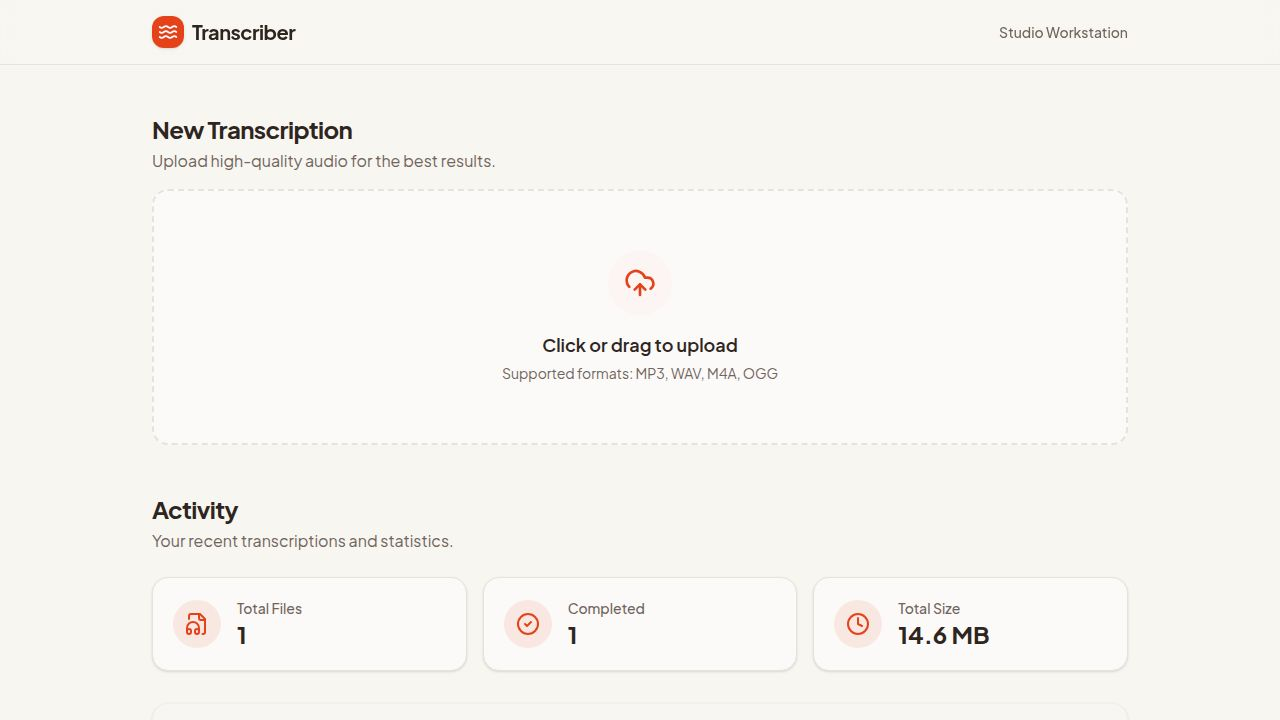
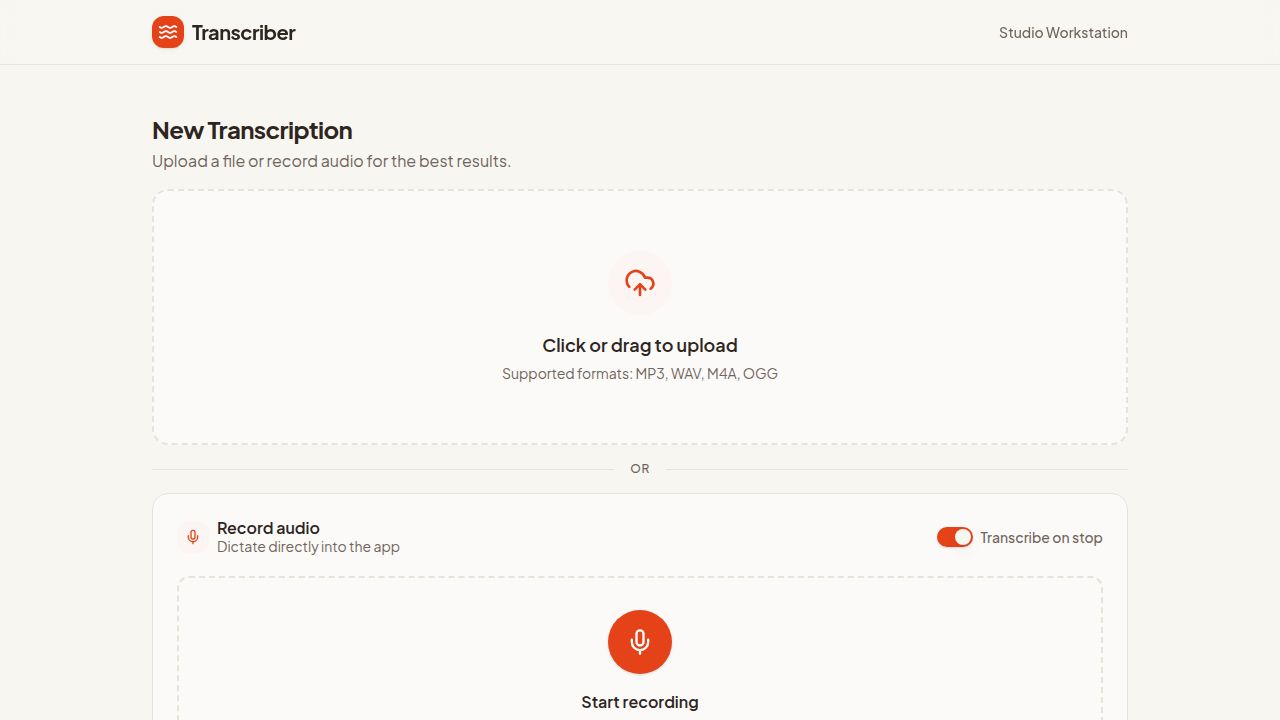
Add a large red button to play and pause recordings
Replace default audio controls with a custom play/pause button using React hooks and refs, and fix Vite HMR issues by restarting the dev server.

Replit-Commit-Author: Agent
Replit-Commit-Session-Id: cb70e699-e0a4-4c51-af6b-66b22c2fdcf6
Replit-Commit-Checkpoint-Type: full_checkpoint
Replit-Commit-Event-Id: f14b11a9-49dc-4ad6-8740-59c7d8eeedbb
Replit-Commit-Screenshot-Url: https://storage.googleapis.com/screenshot-production-us-central1/364c40fe-9def-42ae-b043-055617a192bc/cb70e699-e0a4-4c51-af6b-66b22c2fdcf6/eCAmhh2
Replit-Helium-Checkpoint-Created: true

diff --git a/artifacts/transcriber/src/components/TranscriptionCard.tsx b/artifacts/transcriber/src/components/TranscriptionCard.tsx
@@ -1,4 +1,4 @@
-import { useState } from "react";
+import { useState, useRef } from "react";
 import { Transcription } from "@workspace/api-client-react/src/generated/api.schemas";
 import { useDeleteTranscription, getListTranscriptionsQueryKey, getGetTranscriptionStatsQueryKey } from "@workspace/api-client-react";
 import { useQueryClient } from "@tanstack/react-query";
@@ -6,7 +6,7 @@ import { formatFileSize, formatDate } from "@/lib/format";
 import { Card, CardHeader, CardContent, CardFooter } from "@/components/ui/card";
 import { Button } from "@/components/ui/button";
 import { Badge } from "@/components/ui/badge";
-import { Loader2, Copy, Trash2, FileAudio, AlertCircle, Check, Volume2 } from "lucide-react";
+import { Loader2, Copy, Trash2, FileAudio, AlertCircle, Check, Play, Pause } from "lucide-react";
 import { useToast } from "@/hooks/use-toast";
 import { cn } from "@/lib/utils";
 import { TransformPanel } from "./TransformPanel";
@@ -28,8 +28,20 @@ interface TranscriptionCardProps {
 
 export function TranscriptionCard({ transcription }: TranscriptionCardProps) {
   const [copied, setCopied] = useState(false);
+  const [isPlaying, setIsPlaying] = useState(false);
+  const audioRef = useRef<HTMLAudioElement | null>(null);
   const { toast } = useToast();
   const queryClient = useQueryClient();
+
+  const togglePlayback = () => {
+    const el = audioRef.current;
+    if (!el) return;
+    if (el.paused) {
+      el.play();
+    } else {
+      el.pause();
+    }
+  };
 
   const deleteMutation = useDeleteTranscription({
     mutation: {
@@ -122,18 +134,26 @@ export function TranscriptionCard({ transcription }: TranscriptionCardProps) {
         
         {isCompleted && transcription.audioPath && (
           <div className="mb-3">
-            <div className="flex items-center gap-2 mb-1.5 text-xs font-medium text-muted-foreground">
-              <Volume2 className="w-3.5 h-3.5" />
-              <span>Recording playback</span>
-            </div>
             <audio
-              controls
+              ref={audioRef}
               preload="none"
-              className="w-full h-10"
               src={`/api/transcriptions/${transcription.id}/audio`}
+              onPlay={() => setIsPlaying(true)}
+              onPause={() => setIsPlaying(false)}
+              onEnded={() => setIsPlaying(false)}
+              className="hidden"
+            />
+            <Button
+              onClick={togglePlayback}
+              className="w-full h-14 text-base font-bold uppercase tracking-wide bg-red-600 hover:bg-red-700 text-white gap-2 shadow-md"
             >
-              Your browser does not support audio playback.
-            </audio>
+              {isPlaying ? (
+                <Pause className="w-6 h-6 fill-current" />
+              ) : (
+                <Play className="w-6 h-6 fill-current" />
+              )}
+              {isPlaying ? "Pause Recording" : "Play This Recording"}
+            </Button>
           </div>
         )}
 